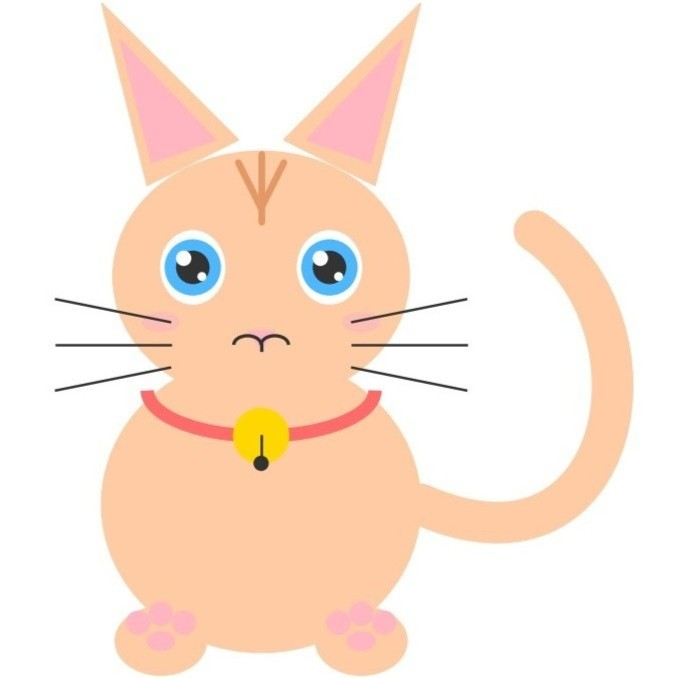
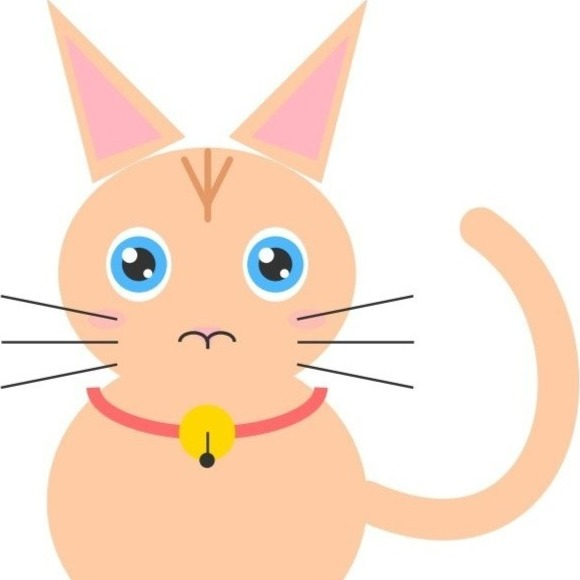
fix(catbench): tight zero-margin autocrop for python and svg

diff --git a/demos/CatBench/index.html b/demos/CatBench/index.html
@@ -426,6 +426,13 @@ function attachSvgAutoCrop(obj) {
     if (!fullW || !fullH) return;
     let minX = Infinity, minY = Infinity, maxX = -Infinity, maxY = -Infinity;
     const skip = new Set(['defs', 'metadata', 'title', 'desc', 'style']);
+    const isBackdrop = (tag, b, el) => {
+      const op = parseFloat(el.getAttribute('opacity') || el.style.opacity || '1');
+      if (op < 0.35) return true;
+      if (tag === 'rect' && b.width >= fullW * 0.9 && b.height >= fullH * 0.9) return true;
+      if (tag === 'ellipse' && b.width >= fullW * 0.7 && b.height <= fullH * 0.18) return true;
+      return false;
+    };
     const walk = (el) => {
       for (const c of el.children) {
         const tag = (c.tagName || '').toLowerCase();
@@ -433,8 +440,8 @@ function attachSvgAutoCrop(obj) {
         if (tag === 'g') { walk(c); continue; }
         try {
           const b = c.getBBox();
-          if (tag === 'rect' && b.width >= fullW * 0.95 && b.height >= fullH * 0.95) continue;
           if (b.width === 0 && b.height === 0) continue;
+          if (isBackdrop(tag, b, c)) continue;
           if (b.x < minX) minX = b.x;
           if (b.y < minY) minY = b.y;
           if (b.x + b.width > maxX) maxX = b.x + b.width;
@@ -445,8 +452,6 @@ function attachSvgAutoCrop(obj) {
     walk(svg);
     if (!isFinite(minX)) return;
     let x = minX, y = minY, w = maxX - minX, h = maxY - minY;
-    const pad = Math.max(w, h) * 0.04;
-    x -= pad; y -= pad; w += 2 * pad; h += 2 * pad;
     const side = Math.max(w, h);
     x -= (side - w) / 2;
     y -= (side - h) / 2;

diff --git a/scripts/autocrop_assets.py b/scripts/autocrop_assets.py
@@ -1,75 +1,128 @@
 #!/usr/bin/env python3
-"""Auto-crop CatBench raster assets to a consistent square framing.
+"""Auto-crop CatBench raster assets to a tight 1:1 square around the subject.
 
-Samples the four corner pixels for a background colour, finds the bounding
-box of pixels that differ from that background, crops with a small padding,
-then pads the crop back to a square in the same background. Result: kittens
-range from tiny to huge in their original files but render at consistent
-size in the grid cells.
-
-Idempotent: a cropped + squared file converges on a stable shape, so this
-can run in CI on every push. SVG and GIF files are skipped (vector and
-animated, respectively).
+Flood-fills background from image edges (corner colour + tolerance), also
+treats pale low-saturation pixels as background. Crops to the subject bbox
+with no padding, then extracts the smallest centred square. No margin fill.
 """
 from __future__ import annotations
 
 import sys
+from collections import deque
 from pathlib import Path
 
-from PIL import Image, ImageChops
+import numpy as np
+from PIL import Image
 
 ROOT = Path(__file__).resolve().parent.parent
 ASSETS = ROOT / "demos" / "CatBench" / "assets"
 
 CROP_EXTS = {".png", ".jpg", ".jpeg"}
-PADDING_PCT = 0.04
-DIFF_THRESHOLD = 12   # 0..255, per-channel diff to count as "subject"
+BG_TOLERANCE = 20       # per-channel diff from edge bg colour
+PALE_LUMA = 230         # 0-255, pixels brighter than this...
+PALE_SAT = 0.14         # ...and less saturated than this count as background
 
 
-def detect_bg(rgb: Image.Image) -> tuple[int, int, int]:
-    w, h = rgb.size
-    corners = [rgb.getpixel(p) for p in ((0, 0), (w - 1, 0), (0, h - 1), (w - 1, h - 1))]
-    return tuple(int(sum(c[i] for c in corners) / len(corners)) for i in range(3))
-
-
-def autocrop(img: Image.Image) -> tuple[Image.Image, tuple[int, int, int]]:
-    rgb = img.convert("RGB")
-    bg = detect_bg(rgb)
-    diff = ImageChops.difference(rgb, Image.new("RGB", rgb.size, bg)).convert("L")
-    mask = diff.point(lambda p: 255 if p > DIFF_THRESHOLD else 0)
-    bbox = mask.getbbox()
-    if not bbox:
-        return img, bg
-
-    bw, bh = bbox[2] - bbox[0], bbox[3] - bbox[1]
-
-    px = int(bw * PADDING_PCT)
-    py = int(bh * PADDING_PCT)
-    bbox = (
-        max(0, bbox[0] - px),
-        max(0, bbox[1] - py),
-        min(iw, bbox[2] + px),
-        min(ih, bbox[3] + py),
+def detect_bg(rgb: np.ndarray) -> tuple[int, int, int]:
+    h, w, _ = rgb.shape
+    corners = np.array(
+        [rgb[0, 0], rgb[0, w - 1], rgb[h - 1, 0], rgb[h - 1, w - 1]],
+        dtype=np.int16,
     )
-    return img.crop(bbox), bg
+    return tuple(int(corners[:, i].mean()) for i in range(3))
 
 
-def square_pad(img: Image.Image, bg: tuple[int, int, int]) -> Image.Image:
-    w, h = img.size
-    if w == h:
+def flood_background(rgb: np.ndarray, bg: tuple[int, int, int], tol: int) -> np.ndarray:
+    h, w, _ = rgb.shape
+    bg_arr = np.array(bg, dtype=np.int16)
+    close = np.abs(rgb.astype(np.int16) - bg_arr).max(axis=2) <= tol
+    visited = np.zeros((h, w), dtype=bool)
+    q: deque[tuple[int, int]] = deque()
+
+    for x in range(w):
+        for y in (0, h - 1):
+            if close[y, x] and not visited[y, x]:
+                visited[y, x] = True
+                q.append((y, x))
+    for y in range(h):
+        for x in (0, w - 1):
+            if close[y, x] and not visited[y, x]:
+                visited[y, x] = True
+                q.append((y, x))
+
+    while q:
+        y, x = q.popleft()
+        for ny, nx in ((y - 1, x), (y + 1, x), (y, x - 1), (y, x + 1)):
+            if 0 <= ny < h and 0 <= nx < w and not visited[ny, nx] and close[ny, nx]:
+                visited[ny, nx] = True
+                q.append((ny, nx))
+
+    return visited
+
+
+def pale_background(rgb: np.ndarray) -> np.ndarray:
+    px = rgb.astype(np.float32) / 255.0
+    maxc = px.max(axis=2)
+    minc = px.min(axis=2)
+    sat = np.divide(maxc - minc, maxc, out=np.zeros_like(maxc), where=maxc > 0)
+    luma = 0.299 * px[:, :, 0] + 0.587 * px[:, :, 1] + 0.114 * px[:, :, 2]
+    return (luma >= PALE_LUMA / 255.0) & (sat <= PALE_SAT)
+
+
+def subject_bbox(rgb: np.ndarray) -> tuple[int, int, int, int] | None:
+    bg = detect_bg(rgb)
+    is_bg = flood_background(rgb, bg, BG_TOLERANCE) | pale_background(rgb)
+    ys, xs = np.where(~is_bg)
+    if ys.size == 0:
+        return None
+    return int(xs.min()), int(ys.min()), int(xs.max()) + 1, int(ys.max()) + 1
+
+
+def square_crop(img: Image.Image, bbox: tuple[int, int, int, int]) -> Image.Image:
+    x0, y0, x1, y1 = bbox
+    bw, bh = x1 - x0, y1 - y0
+    cx = (x0 + x1) / 2.0
+    cy = (y0 + y1) / 2.0
+    side = max(bw, bh)
+    left = int(round(cx - side / 2))
+    top = int(round(cy - side / 2))
+    right = left + side
+    bottom = top + side
+
+    iw, ih = img.size
+    if left < 0:
+        right -= left
+        left = 0
+    if top < 0:
+        bottom -= top
+        top = 0
+    if right > iw:
+        left = max(0, left - (right - iw))
+        right = iw
+    if bottom > ih:
+        top = max(0, top - (bottom - ih))
+        bottom = ih
+
+    side = min(right - left, bottom - top)
+    right = left + side
+    bottom = top + side
+    return img.crop((left, top, right, bottom))
+
+
+def autocrop(img: Image.Image) -> Image.Image:
+    rgb = np.asarray(img.convert("RGB"))
+    bbox = subject_bbox(rgb)
+    if not bbox:
         return img
-    side = max(w, h)
-    canvas = Image.new("RGB", (side, side), bg)
-    canvas.paste(img.convert("RGB"), ((side - w) // 2, (side - h) // 2))
-    return canvas
+    cropped = img.crop(bbox)
+    return square_crop(cropped, (0, 0, cropped.size[0], cropped.size[1]))
 
 
 def process(path: Path) -> bool:
     img = Image.open(path)
     orig_size = img.size
-    cropped, bg = autocrop(img)
-    squared = square_pad(cropped, bg)
-    if squared.size == orig_size:
+    result = autocrop(img)
+    if result.size == orig_size and result.tobytes() == img.convert("RGB").tobytes():
         return False
 
     suffix = path.suffix.lower()
@@ -78,8 +131,8 @@ def process(path: Path) -> bool:
         save_kwargs = {"quality": 92, "optimize": True}
     elif suffix == ".png":
         save_kwargs = {"optimize": True}
-    squared.save(path, **save_kwargs)
-    print(f"  cropped {path.name} {orig_size} -> {squared.size}")
+    result.save(path, **save_kwargs)
+    print(f"  cropped {path.name} {orig_size} -> {result.size}")
     return True
 
 
